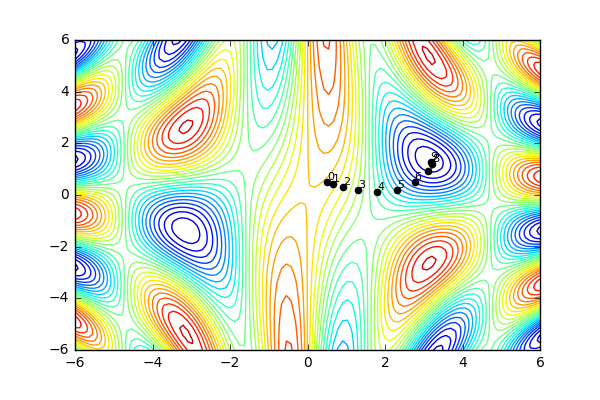
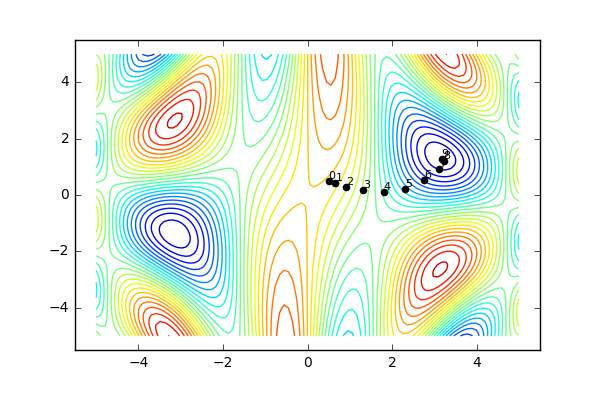
Add new examples

diff --git a/Optimization/genetic_algorithm.py b/Optimization/genetic_algorithm.py
@@ -7,7 +7,8 @@ Created on Tue Nov 14 13:47:10 2017
 """
 
 import numpy as np 
-import random
+#import random
+import matplotlib.pyplot as plt
 from gradient_descent import MathFunction
  
 class EvolutionaryAlgorithm():
@@ -40,16 +41,22 @@ class EvolutionaryAlgorithm():
          self.population_fitness_
       except:
          self.population_fitness_ = self.population_fitness(population)
+         
       if np.min(self.population_fitness_) < 0: 
          normalized_fitness = self.population_fitness_ + abs(np.min(self.population_fitness_))
       else:
          normalized_fitness = self.population_fitness_ - abs(np.min(self.population_fitness_))
-   
-      roulette_ = np.cumsum(normalized_fitness/float(np.sum(normalized_fitness)))
-      pocket = np.random.rand()
-      for arrow, fitness in enumerate(roulette_):
-         if pocket <= fitness:
-            return population[arrow]
+
+      if np.sum(normalized_fitness) == 0:
+         return population[np.random.choice(len(population))]
+         
+      roulette_array = np.cumsum(normalized_fitness/float(np.sum(normalized_fitness)))
+      seed = np.random.rand()
+      for i, fitness in enumerate(roulette_array):
+         if seed <= fitness:
+            break
+      
+      return population[i]
    
    def population_fitness(self,population):
       return np.array([self.signal*self.fitness(X) for X in population])
@@ -83,7 +90,7 @@ class EvolutionaryAlgorithm():
                offspring = self.crossover(parents)
                parents_list.append(offspring)
             else:
-               parents_list.append(random.choice(parents))
+               parents_list.append(parents[np.random.choice(len(parents))])
          
          #Mutation
          for individual in parents_list:
@@ -96,14 +103,22 @@ class EvolutionaryAlgorithm():
    
 if __name__ == "__main__":   
    
-   function = MathFunction()
-   ecosystem = EvolutionaryAlgorithm('max',function.venkataraman,20,2,[-5,5])
-   optimizer_results =ecosystem.evolve(.8,.3,10)
+   np.random.seed(0)
    
-   """
-   population = ecosystem.new_population()
-   population_fitness = ecosystem.population_fitness(population)
-   best = ecosystem.best(population)
-   parents = np.array([ecosystem.roulette(population),ecosystem.roulette(population)])
-   offspring = ecosystem.crossover(parents)
-   """
+   function = MathFunction()
+   ecosystem = EvolutionaryAlgorithm('min',function.venkataraman,20,2,[-5,5])
+   optimizer_results =ecosystem.evolve(.8,.1,10)
+   
+   ### PLOTTING
+   x1 = np.linspace(-5, 5, 100)
+   x2 = np.linspace(-5, 5, 100)
+   X = np.array(np.meshgrid(x1, x2))
+   z = function.venkataraman(X)
+   
+   f, axarr = plt.subplots(10,1,figsize=(4,30))
+   for i, generation in enumerate(optimizer_results['solutions']):
+      axarr[i].contour(x1,x2,z,np.arange(-3.3, 3.5, .25).tolist(),cmap='jet')
+      axarr[i].scatter(generation[:,0],generation[:,1],c=[0,0,0],zorder=1e+3)
+   
+   plt.savefig('evolution.png')
+   

diff --git a/Optimization/gradient_descent.py b/Optimization/gradient_descent.py
@@ -82,8 +82,8 @@ if __name__ == "__main__":
    optimizer_results = optimizer.search(X0,.33,10)
    
    #PLOTTING
-   x1 = np.linspace(-6, 6, 100)
-   x2 = np.linspace(-6, 6, 100)
+   x1 = np.linspace(-5, 5, 100)
+   x2 = np.linspace(-5, 5, 100)
    X = np.array(np.meshgrid(x1, x2))
    z = function.venkataraman(X)
    
@@ -92,8 +92,5 @@ if __name__ == "__main__":
    for i,solution in enumerate(optimizer_results['solution']):
       plt.scatter(solution[0],solution[1],c=[0,0,0],zorder=1e+3)
       plt.text(solution[0],solution[1],i,va='bottom',fontsize=8)
-   
-   plt.xlim([-6,6])
-   plt.ylim([-6,6])
    
    plt.savefig('gradient_descent.png')
